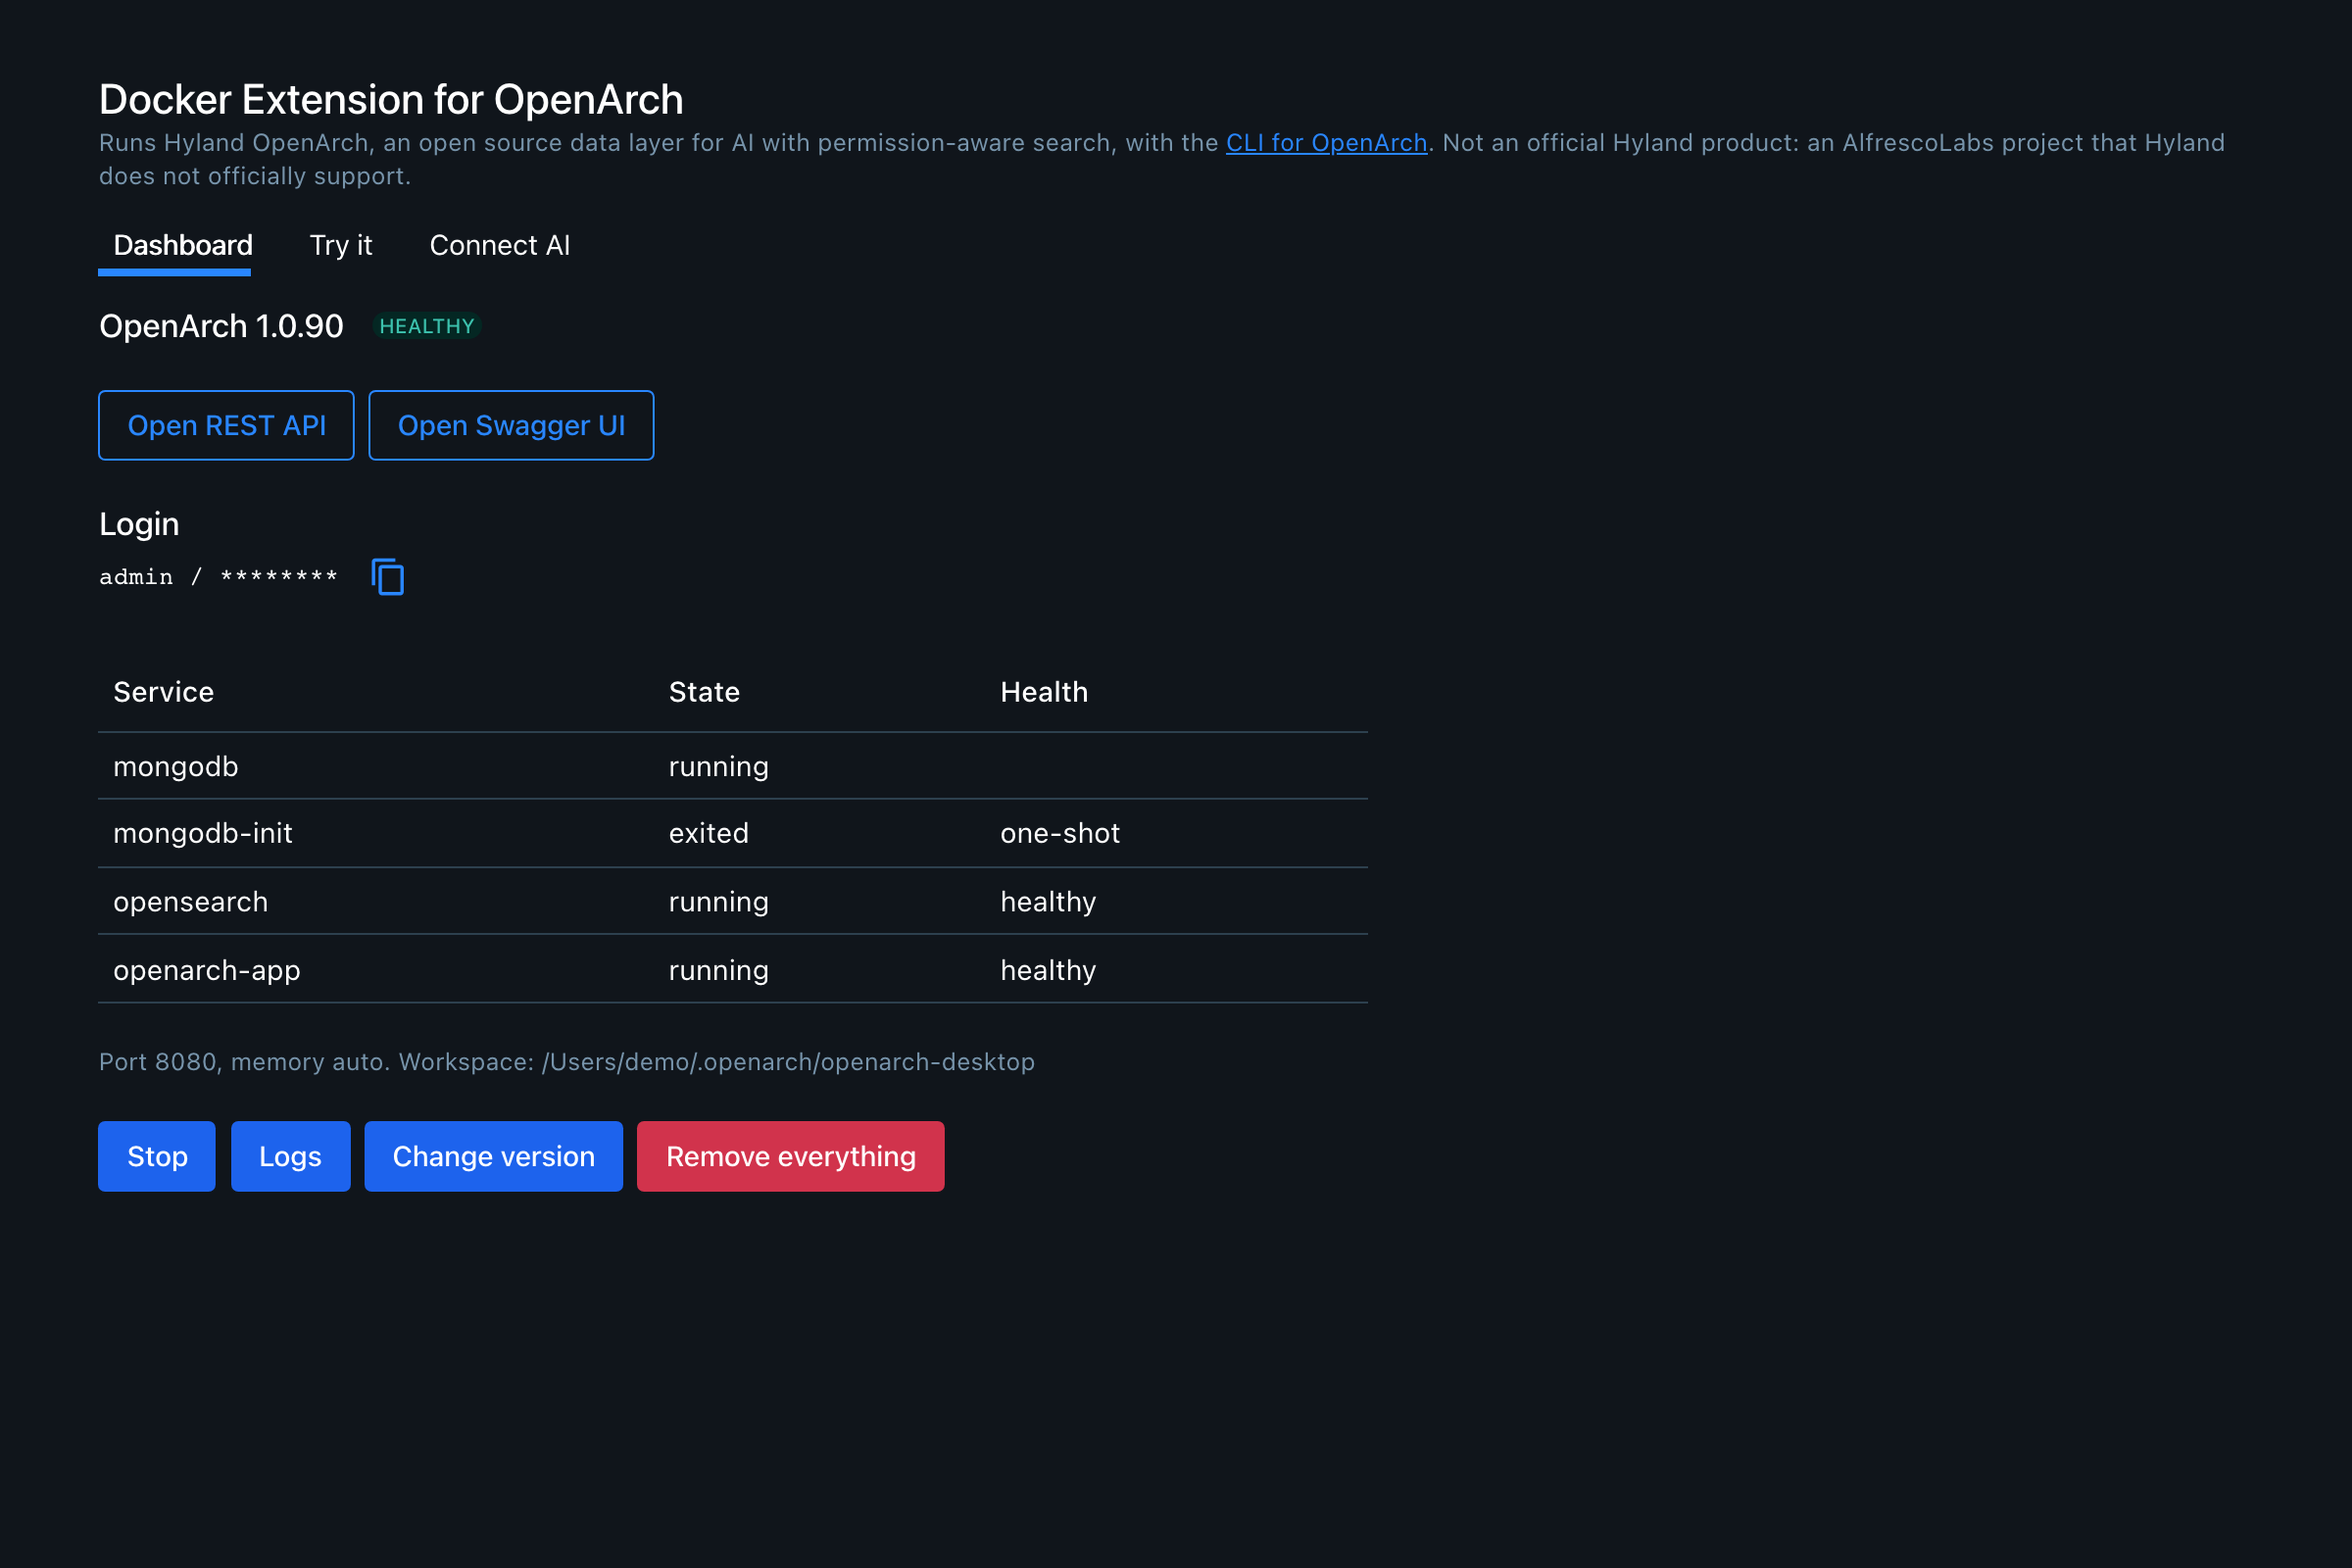
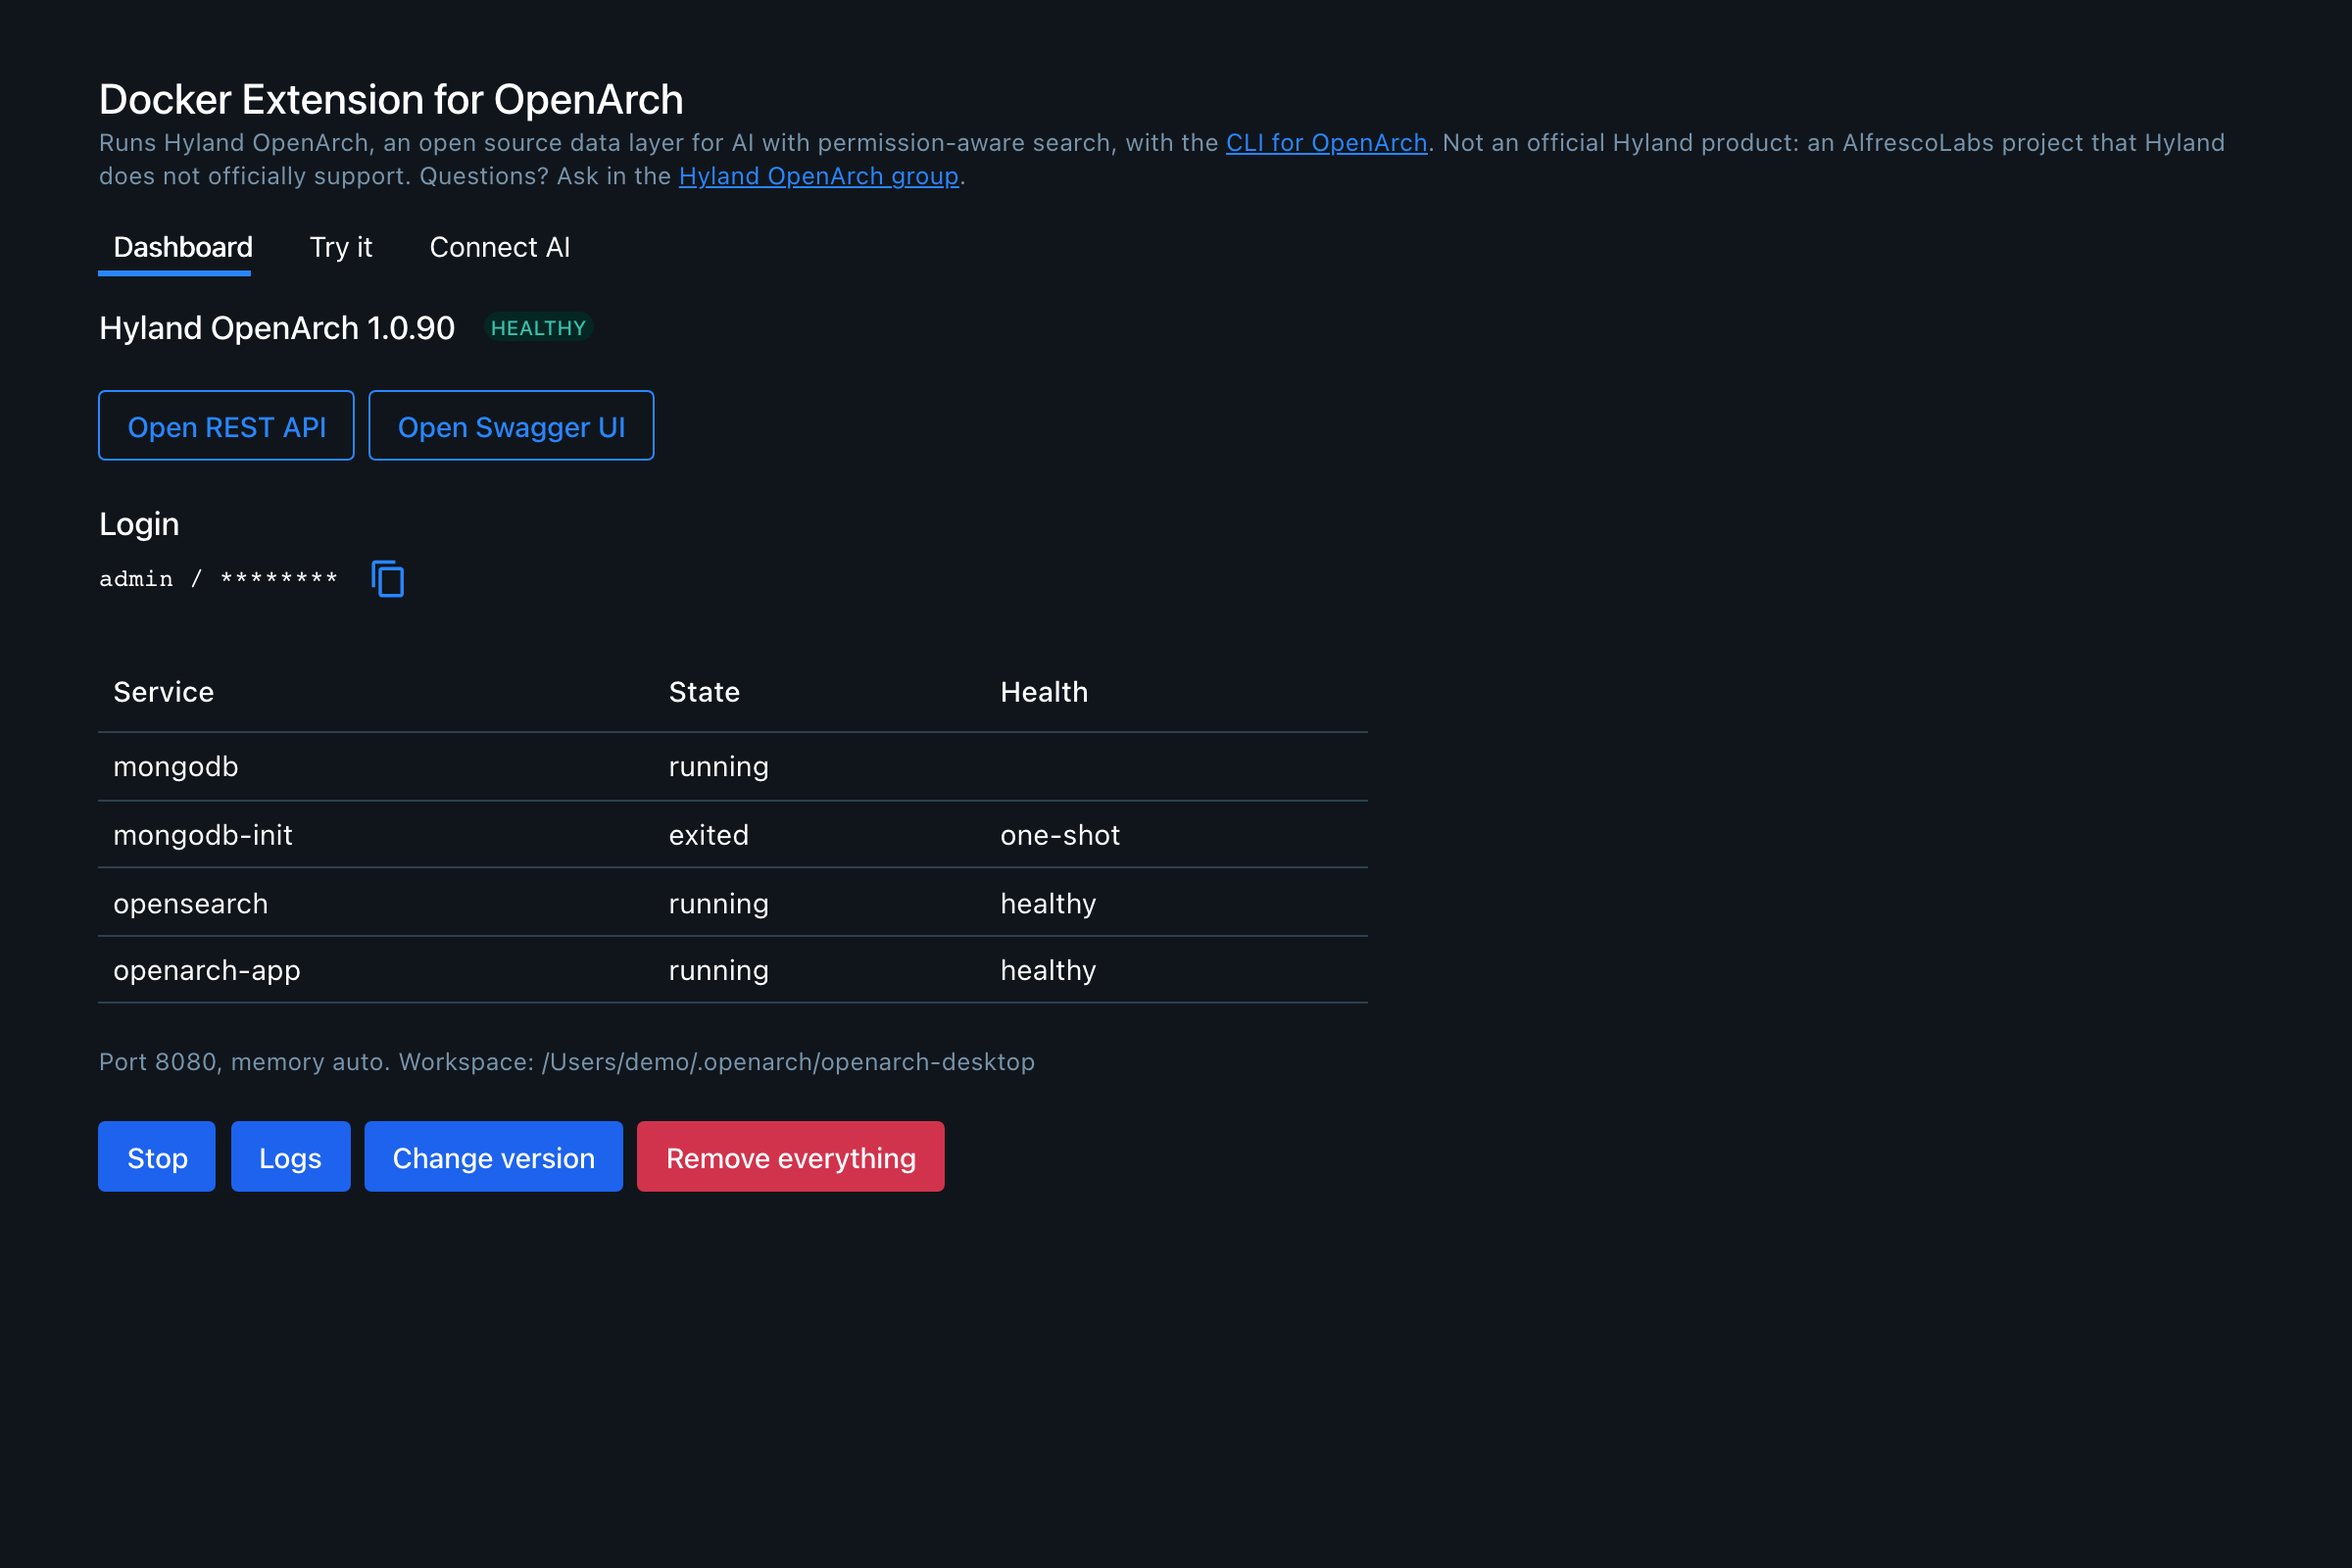
Retake the screenshots for 0.1.8

diff --git a/README.md b/README.md
@@ -58,7 +58,7 @@ docker extension update angelborroy/openarch-extension
 ## Use
 
 1. Open the OpenArch Community tab in Docker Desktop.
-2. Choose "OpenArch only (REST API)" or "OpenArch + demo", and the version. "Advanced options" has the port,
+2. Choose "Hyland OpenArch only (REST API)" or "Hyland OpenArch + demo", and the version. "Advanced options" has the port,
    the memory, OpenSearch Dashboards, open MongoDB and OpenSearch ports, and the users bundled in the OpenArch
    image.
 3. Click Start. The page shows the state until OpenArch is healthy.
